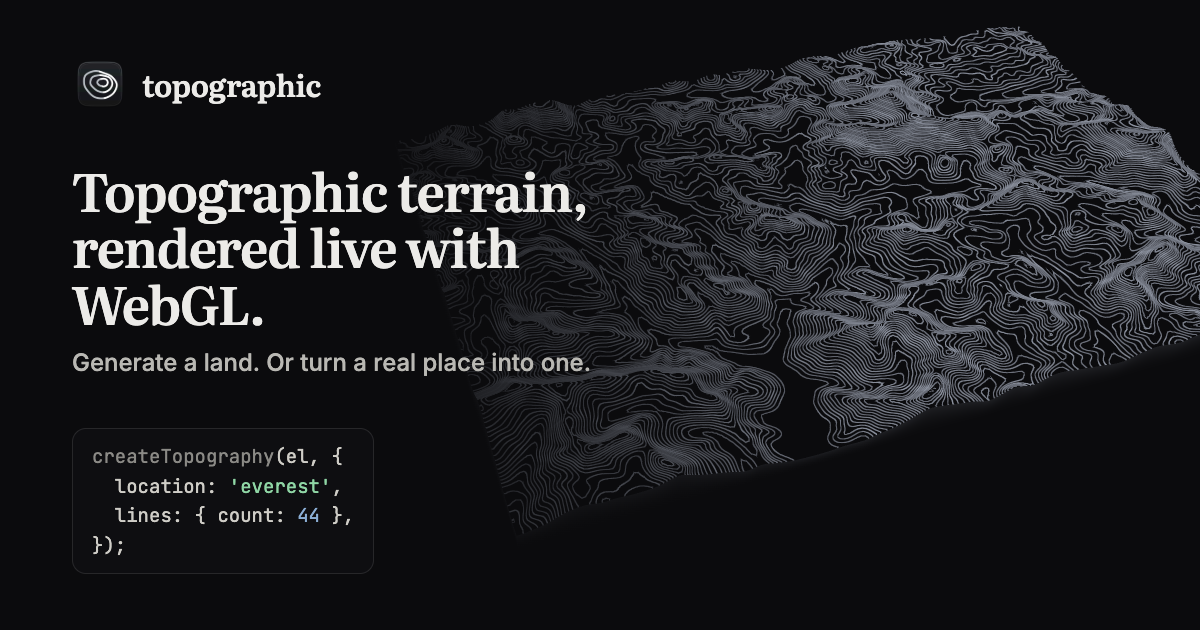
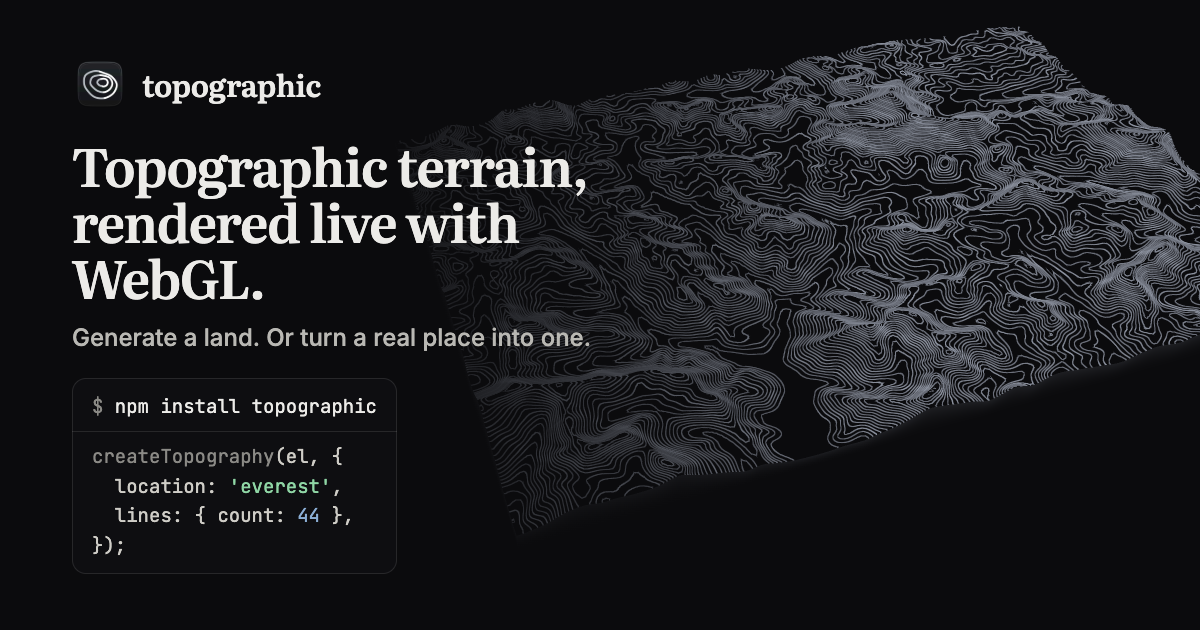
show the npm install line above the code on the social cards
- each card's code block starts with the install command, set apart by a thin rule, then the call
- the docs card installs both packages, since its code is the react component
- the github preview gets the same block; no url and no button on any card

Changed region(s): [[0.0617, 0.2111, 0.4933, 0.6032], [0.0617, 0.6333, 0.3083, 0.6937]]

diff --git a/scripts/readme-render.html b/scripts/readme-render.html
@@ -21,6 +21,7 @@
   #card .sub { margin: 0; font: 500 24px/1.3 Inter, sans-serif; color: #b9b8b3; }
   #card pre { align-self: flex-start; margin: 0; padding: 14px 20px; border-radius: 14px; background: rgba(15, 15, 18, .84);
     box-shadow: inset 0 0 0 1px rgba(255, 255, 255, .1); font: 400 19px/1.55 'JetBrains Mono', monospace; color: #cfcdc7; white-space: pre; }
+  #card pre .step { display: block; margin: 0 -20px 10px; padding: 0 20px 10px; border-bottom: 1px solid rgba(255, 255, 255, .1); color: #ecebe8; }
   #card pre b { color: #8b8a86; font-weight: 400; }
   #card pre i { color: #8fd6a5; font-style: normal; }
   #card pre u { color: #8aadd4; text-decoration: none; }
